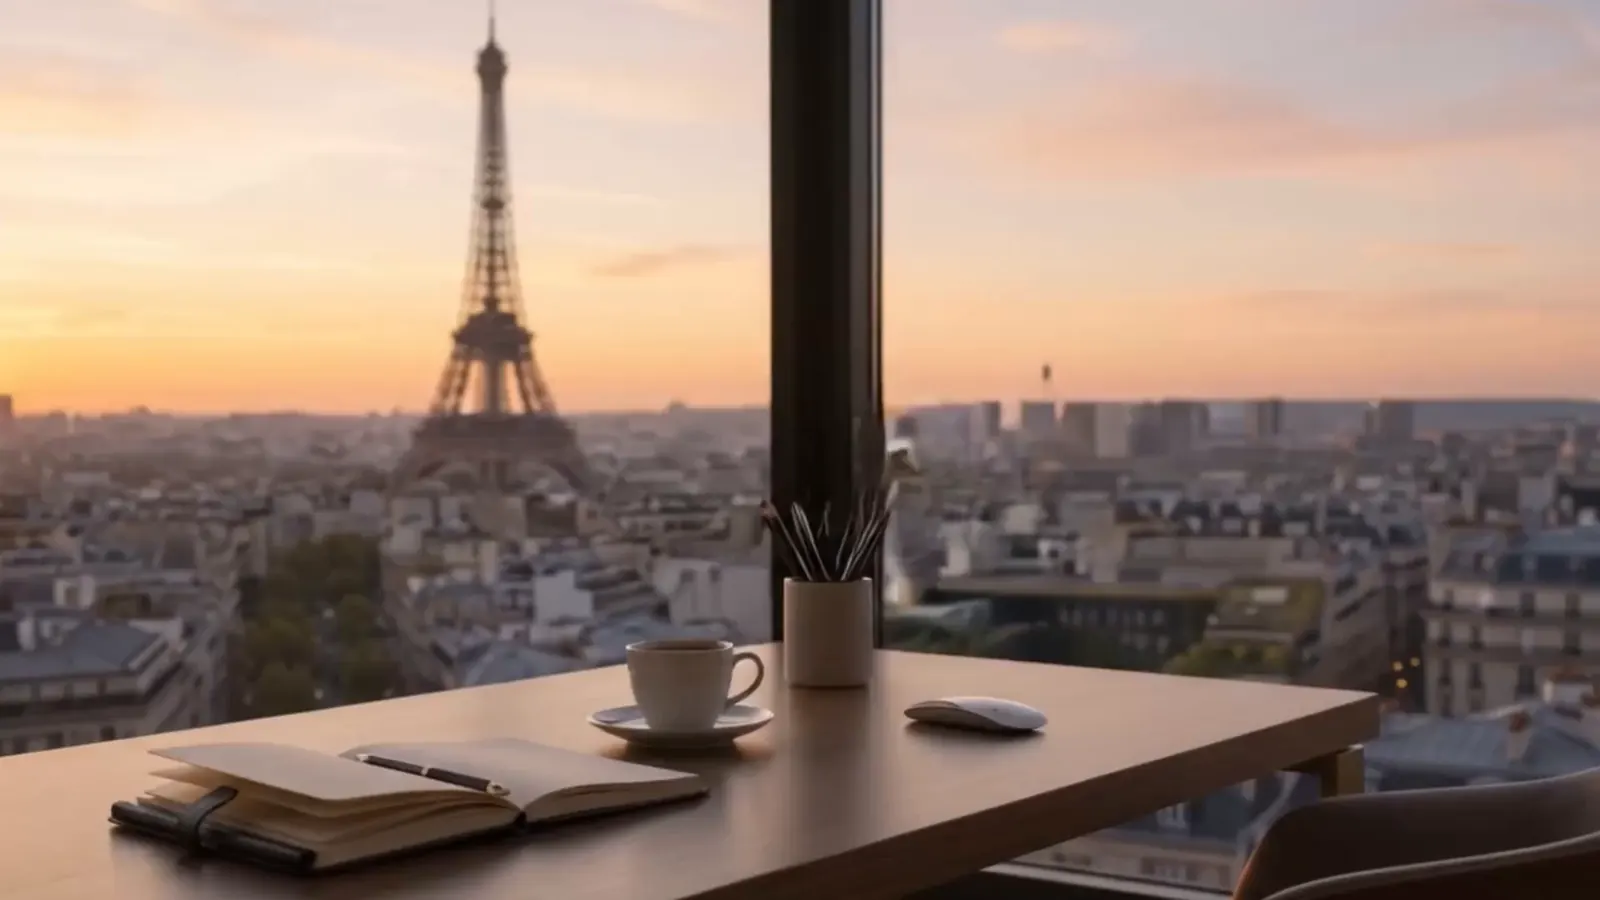
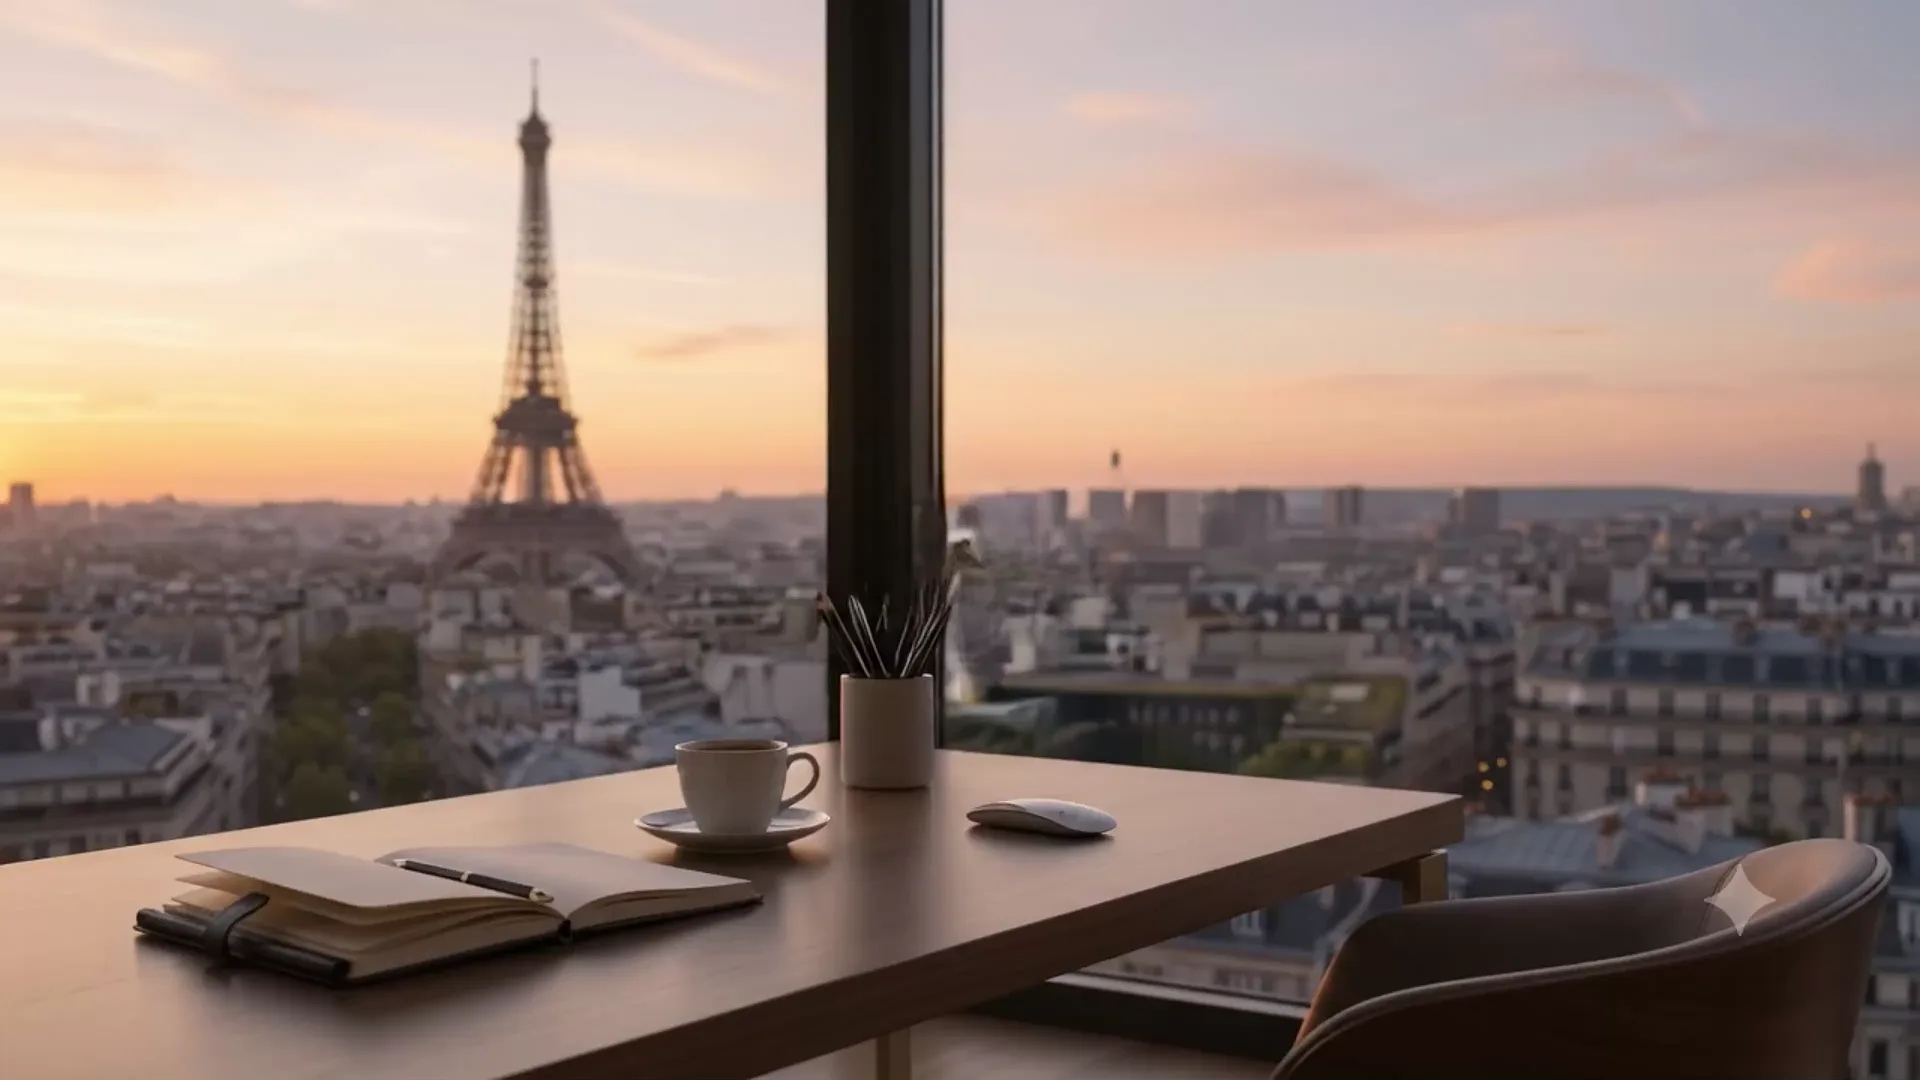
Hero video: subject-following phone crop, portrait poster, sharper 10-bit encode script (D-153, WIP: videos encoding)
Claude-Session: https://claude.ai/code/session_015byVS5ynNrttEaeH8JRUkT

diff --git a/site/index.html b/site/index.html
@@ -20,7 +20,9 @@
     <meta property="og:image:height" content="630" />
     <meta property="og:image:alt" content="Brivia Club: find the people near you who love what you love." />
     <meta name="twitter:card" content="summary_large_image" />
-    <link rel="preload" as="image" href="./media/posters/hero-section-video.webp" fetchpriority="high" />
+    <!-- D-153: phones in portrait get the portrait poster (the first frame of the subject-following crop). -->
+    <link rel="preload" as="image" href="./media/posters/hero-section-video.webp" media="(min-aspect-ratio: 10/16)" fetchpriority="high" />
+    <link rel="preload" as="image" href="./media/posters/hero-portrait.webp" media="(max-aspect-ratio: 10/16)" fetchpriority="high" />
     <link rel="preload" as="font" type="font/woff2" fetchpriority="low" href="../node_modules/@fontsource/instrument-sans/files/instrument-sans-latin-700-normal.woff2" crossorigin />
     <script>
       /* D-088: a sign-in that Supabase returns to the Site URL (this page) instead of auth.html goes straight on to the
@@ -82,6 +84,14 @@
           <source src="./media/video/hero-4k-hevc.mp4" type='video/mp4; codecs="hvc1.1.6.L150.90"' data-width="3840" data-height="2160" data-bitrate="6000000" />
           <source src="./media/video/hero-4k-h264.mp4" type='video/mp4; codecs="avc1.640033"' data-width="3840" data-height="2160" data-bitrate="12000000" />
         </video>
+        <script>
+          /* D-153: the portrait poster on portrait phones, set before first paint (a poster cannot take a media query). */
+          (() => {
+            const v = document.currentScript.previousElementSibling;
+            const portrait = document.querySelector('link[rel="preload"][media="(max-aspect-ratio: 10/16)"]');
+            if (v && portrait && window.matchMedia('(max-aspect-ratio: 10/16)').matches) v.poster = portrait.href;
+          })();
+        </script>
         <div class="hero-video-overlay" aria-hidden="true"></div>
         <div class="hero-copy">
           <h1 class="brand-wordmark"><span>the</span> <strong>Brivia Club</strong></h1>

diff --git a/docs/HANDOFF.md b/docs/HANDOFF.md
@@ -1,11 +1,15 @@
 # Session handoff (read after CLAUDE.md)
 
-Last updated: 2026-11-04 (D-152 Chat search finds people, mobile chat polish; D-151 Read receipts switch, like and comment notifications, Posts tab renamed Notes; D-150 Delivered, Read and last active in chat; D-141 Hiring, built, 0037 not applied; D-140 worldwide city directory and company on profiles; D-138 one aura on every sheet, crossings say where and when, hidden-tab pulses, sound switches; D-137 bio 1 to 20 words, the sound kit; D-136 Gospel Music and NLP offered; D-135 interest list in the founder's wording, A–Z; D-134 Nearby notifications and web push; D-133 phone location; D-131 Nearby discovery; D-129 pitch shown once; D-128 cover order, names, OPEN MINDS retired; D-126 interest on all events; D-125 Show interest, brochure, poster area). Before that: 2026-11-02 (D-121 Create Event). Before that: 2026-11-01 (D-119 Crossing paths). Before that: 2026-11-01 (D-118 calmer Explore; D-117 Explore events, Posts tab). Before that: 2026-11-01 (D-116 cover set). Before that: 2026-10-28 (D-100 chat inbox, D-101 post activity and 0015, D-102 photo and setup). Before that: 2026-10-20 (live-database correction D-070; "Send without a note" D-071). Before that: 2026-10-16 (design references, D-062). Before that: 2026-10-13, after Phase D of the experience iteration (the test world), on branch
+Last updated: 2026-11-04 (D-153 sharper hero video, subject-following phone crop; D-152 Chat search finds people, mobile chat polish; D-151 Read receipts switch, like and comment notifications, Posts tab renamed Notes; D-150 Delivered, Read and last active in chat; D-141 Hiring, built, 0037 not applied; D-140 worldwide city directory and company on profiles; D-138 one aura on every sheet, crossings say where and when, hidden-tab pulses, sound switches; D-137 bio 1 to 20 words, the sound kit; D-136 Gospel Music and NLP offered; D-135 interest list in the founder's wording, A–Z; D-134 Nearby notifications and web push; D-133 phone location; D-131 Nearby discovery; D-129 pitch shown once; D-128 cover order, names, OPEN MINDS retired; D-126 interest on all events; D-125 Show interest, brochure, poster area). Before that: 2026-11-02 (D-121 Create Event). Before that: 2026-11-01 (D-119 Crossing paths). Before that: 2026-11-01 (D-118 calmer Explore; D-117 Explore events, Posts tab). Before that: 2026-11-01 (D-116 cover set). Before that: 2026-10-28 (D-100 chat inbox, D-101 post activity and 0015, D-102 photo and setup). Before that: 2026-10-20 (live-database correction D-070; "Send without a note" D-071). Before that: 2026-10-16 (design references, D-062). Before that: 2026-10-13, after Phase D of the experience iteration (the test world), on branch
 `claude/jolly-edison-49xvza` (repo `Georgian-86/brivia-club-v1`). Phases C and D are not on `main` yet, and Phase D's SQL
 is not applied: the founder applies it in the SQL editor (section 3, item 0).
 Update this file at the end of every session. CLAUDE.md holds the aim; this file holds **where we are**.
 
 ## 1. What is done
+
+**2026-11-04, D-153:** the landing hero is re-encoded from the original export: sharpened, 10-bit AV1/HEVC (no
+banding), each file under the 20 MB cap. Phones get a 9:16 crop that follows the subject through every scene and a
+portrait poster. Re-run with `npm run media:hero4k` (the path is `PORTRAIT_PATH` in scripts/encode-hero-4k.mjs).
 
 **2026-11-04, D-152:** Chat search finds **people**, not only threads: a connection is found by a partial first name,
 surname, company or title even with no conversation (or one removed from this device), with Message, which opens the

diff --git a/docs/DECISIONS.md b/docs/DECISIONS.md
@@ -3107,3 +3107,21 @@ controls (a tester or a seeded test member), never a real member, so no new expo
 - **Proof:** SQL harness ALL PASSED (y-chat-people-search S1–S5); unit tests (chat-search); e2e chat-search at 1440,
   390, and layout at 320/375/390/430/768, plus chat-inbox, read-receipts, presence, post-notifications, app-shell,
   mobile-polish, collab-requests, chat-extras. Not tested on a physical iPhone or Android phone (headless browsers only).
+
+## D-153 (2026-11-04): a sharper landing hero, and a phone crop that follows the subject
+
+- **Asked:** "improve the quality of the video on home page ... and also make it look better on phone view both angle
+  wise and quality wise".
+- **Found:** the D-062 encodes were already within SSIM 0.99 of their master, so compression was not the problem. The
+  footage itself is soft (upscaled), and on phones the fixed centre 9:16 crop cut most scenes in half (the passports,
+  the Paris street, the plane window, the tennis kit).
+- **Quality:** re-encoded from the original export (HEROSECTIONVI.MOV) with a two-pass luma unsharp (wide radius for
+  soft edges, small for fine lines; no halos at 100%), AV1 and HEVC in 10-bit (no banding on skies and walls; codec
+  strings updated to Main 10), lower CRFs with a bitrate ceiling so each file stays under the 20 MB hero cap.
+- **Phones (angle):** the portrait file is now a 1216x2160 native-density crop that follows the subject, scene by
+  scene, from a keyframed path chosen on a 0.5 s contact sheet (`PORTRAIT_PATH` in scripts/encode-hero-4k.mjs; eased
+  pans timed to the transitions). Portrait phones also get their own poster (hero-portrait.webp, the first frame of
+  that crop), preloaded with a media query and swapped in before first paint, so the landscape poster is never fetched
+  on a phone.
+- **Unchanged:** the source order and selection logic (AV1, HEVC, H.264 per frame; MediaCapabilities keeps a smooth
+  one), the 20 MB cap, desktop framing.
